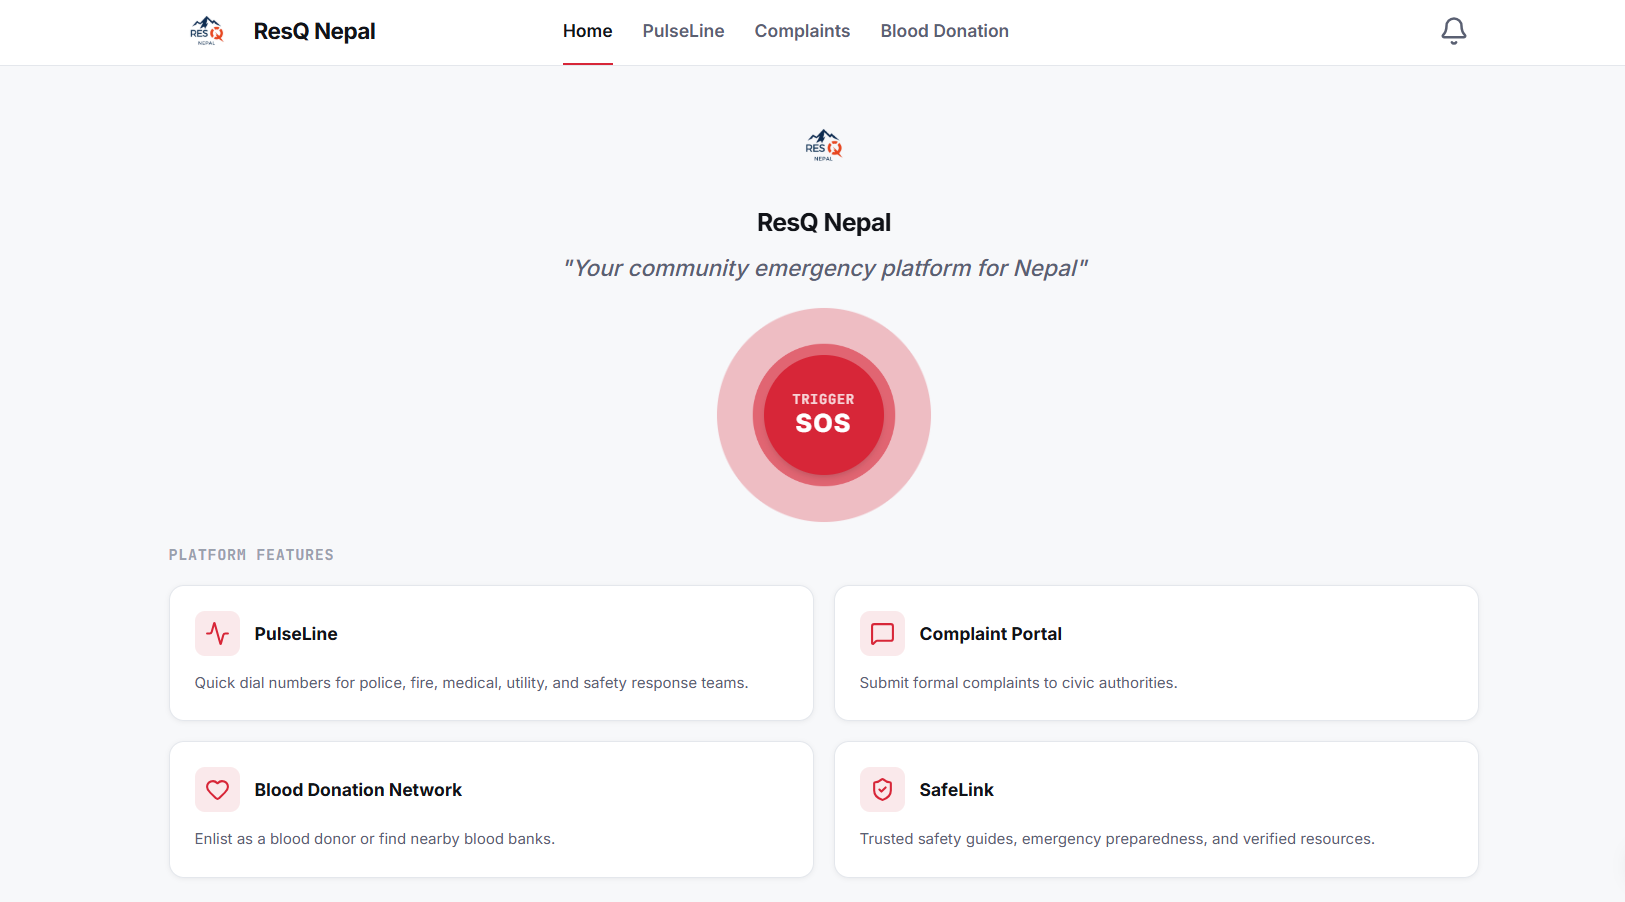
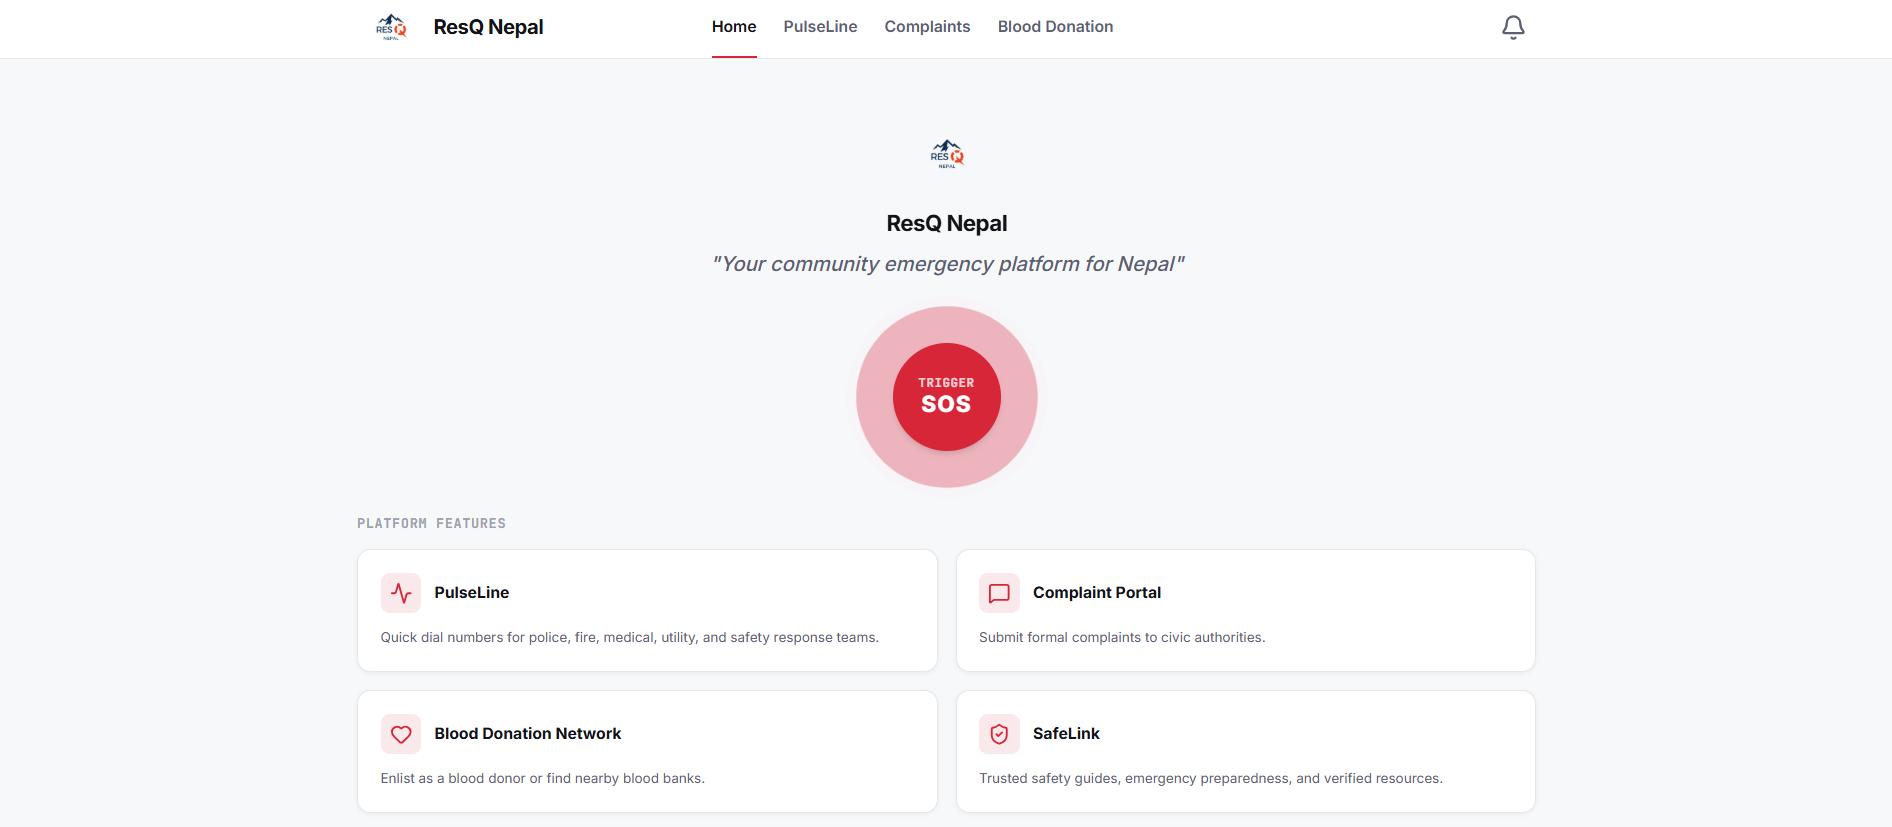
url added

diff --git a/src/components/About.tsx b/src/components/About.tsx
@@ -1,175 +1,3 @@
-// "use client";
-
-// import { useEffect, useState } from "react";
-// import { motion } from "framer-motion";
-
-// const interestTags = [
-//   "Hackathons",
-//   "Problem Solving",
-//   "Open Source",
-//   "Creative Design",
-//   "Nature",
-//   "Continuous Learning",
-// ];
-
-// const stats = [
-//   { label: "Projects Completed", value: 6, suffix: "+" },
-//   { label: "Years Experience", value: 0.5, suffix: "+" },
-//   { label: "Technologies Mastered", value: 12, suffix: "+" },
-//   { label: "Certifications Earned", value: 3, suffix: "" },
-// ];
-
-// function CountUp({ value, suffix }: { value: number; suffix: string }) {
-//   const [count, setCount] = useState(0);
-
-//   useEffect(() => {
-//     const prefersReducedMotion = window.matchMedia(
-//       "(prefers-reduced-motion: reduce)"
-//     ).matches;
-
-//     if (prefersReducedMotion) {
-//       setCount(value);
-//       return;
-//     }
-
-//     let start = 0;
-//     const duration = 1500;
-//     const increment = value / (duration / 16); // ~60fps
-
-//     const timer = setInterval(() => {
-//       start += increment;
-//       if (start >= value) {
-//         clearInterval(timer);
-//         setCount(value);
-//       } else {
-//         setCount(Math.floor(start));
-//       }
-//     }, 16);
-
-//     return () => clearInterval(timer);
-//   }, [value]);
-
-//   return (
-//     <span>
-//       {count}
-//       {suffix}
-//     </span>
-//   );
-// }
-
-// export default function About() {
-//   return (
-//     <section id="about" className="py-24 relative z-10 overflow-hidden">
-//       <div className="container mx-auto px-4 max-w-6xl">
-//         {/* Title */}
-//         <div className="text-center mb-16">
-//           <h2 className="font-heading text-3xl sm:text-5xl font-bold tracking-tight text-fg-primary mb-3">
-//             About Myself
-//           </h2>
-//           <div className="w-16 h-1 bg-gradient-to-r from-accent-purple to-accent-blue mx-auto rounded-full" />
-//         </div>
-
-//         <div className="grid grid-cols-1 lg:grid-cols-12 gap-12 items-center">
-//           {/* Left Column - Sketch Portrait Card */}
-//           <div className="lg:col-span-5 flex justify-center">
-//             <motion.div
-//               initial={{ opacity: 0, x: -30 }}
-//               whileInView={{ opacity: 1, x: 0 }}
-//               viewport={{ once: true, margin: "-100px" }}
-//               transition={{ duration: 0.6 }}
-//               className="w-full max-w-[340px] aspect-[4/5] notebook-paper p-6 relative flex flex-col justify-between shadow-2xl"
-//             >
-//               {/* Notebook Paper Details */}
-//               <div className="absolute top-0 bottom-0 left-6 w-[1.5px] bg-red-900/15" />
-//               <div className="absolute top-6 right-6 font-ui text-[10px] tracking-widest text-fg-muted/40 uppercase">
-//                 CR-0205 // SM
-//               </div>
-
-//               {/* Central sketchy portrait frame */}
-//               <div className="flex-1 border-2 border-dashed border-fg-muted/30 rounded-lg m-2 flex items-center justify-center relative overflow-hidden bg-bg-primary/40">
-//                 <svg
-//                   viewBox="0 0 100 100"
-//                   className="w-24 h-24 text-fg-muted/40"
-//                   fill="none"
-//                   stroke="currentColor"
-//                   strokeWidth="1"
-//                 >
-//                   {/* Sketchy face outline */}
-//                   <path d="M 35,45 Q 38,40 50,40 Q 62,40 65,45 Q 67,52 64,60 Q 60,72 50,72 Q 40,72 36,60 Q 33,52 35,45 Z" />
-//                   {/* hair */}
-//                   <path d="M 33,45 C 38,25 62,25 67,45" />
-//                   {/* eyes & mouth */}
-//                   <circle cx="43" cy="50" r="1.5" fill="currentColor" />
-//                   <circle cx="57" cy="50" r="1.5" fill="currentColor" />
-//                   <path d="M 46,62 Q 50,65 54,62" />
-//                   {/* constellation links over avatar */}
-//                   <path d="M 10,20 L 30,30 L 25,50 M 90,80 L 70,60" strokeDasharray="2,2" stroke="rgba(138, 124, 255, 0.2)" />
-//                 </svg>
-//                 <div className="absolute bottom-3 left-1/2 -translate-x-1/2 font-ui text-[10px] uppercase text-accent-purple tracking-widest">
-//                   [ SAMYAM_AVATAR ]
-//                 </div>
-//               </div>
-
-//               {/* Bottom sketch message */}
-//               <div className="text-center font-ui text-xs text-fg-muted/70 tracking-wide mt-2">
-//                 &quot;Sketching ideas in space, compiling them on Earth.&quot;
-//               </div>
-//             </motion.div>
-//           </div>
-
-//           {/* Right Column - Biography / Info */}
-//           <div className="lg:col-span-7 space-y-6">
-//             <h3 className="font-ui text-lg uppercase tracking-wider text-accent-blue font-semibold">
-//               Designing the Frontend, Engineering the Core
-//             </h3>
-
-//             <p className="font-body text-base text-fg-muted leading-relaxed">
-//               Hello! I&apos;m Samyam, a software engineering student and frontend developer deeply passionate about creating performant, beautiful, and accessible web experiences. I love combining raw engineering details with fluid animations to build interfaces that feel premium.
-//             </p>
-
-//             <p className="font-body text-base text-fg-muted leading-relaxed">
-//               Currently, I focus on building applications using modern frameworks like Next.js and TypeScript, styled with Tailwind CSS, and optimized for maximum responsiveness. I actively participate in hackathons, collaborate on open-source projects, and constantly challenge myself with complex problem solving.
-//             </p>
-
-//             {/* Interest Tags */}
-//             <div className="space-y-3">
-//               <h4 className="font-ui text-xs uppercase tracking-widest text-fg-primary font-bold">
-//                 My Core Interests
-//               </h4>
-//               <div className="flex flex-wrap gap-2.5">
-//                 {interestTags.map((tag, idx) => (
-//                   <span
-//                     key={idx}
-//                     className="font-ui text-xs px-3 py-1.5 rounded-md bg-bg-secondary border border-white/5 text-fg-muted hover:border-accent-purple/35 hover:text-fg-primary transition-all duration-300 cursor-default"
-//                   >
-//                     #{tag}
-//                   </span>
-//                 ))}
-//               </div>
-//             </div>
-
-//             {/* Statistics */}
-//             <div className="grid grid-cols-2 md:grid-cols-4 gap-6 pt-6 border-t border-white/10">
-//               {stats.map((stat, idx) => (
-//                 <div key={idx} className="space-y-1">
-//                   <div className="font-heading text-3xl font-bold text-accent-purple text-glow-purple">
-//                     <CountUp value={stat.value} suffix={stat.suffix} />
-//                   </div>
-//                   <div className="font-ui text-[10px] uppercase tracking-widest text-fg-muted leading-tight">
-//                     {stat.label}
-//                   </div>
-//                 </div>
-//               ))}
-//             </div>
-//           </div>
-//         </div>
-//       </div>
-//     </section>
-//   );
-// }
-
-
-
 "use client";
 
 import { useEffect, useState } from "react";
@@ -178,10 +6,10 @@ import { motion } from "framer-motion";
 const interestTags = [
   "Hackathons",
   "Problem Solving",
-  "Open Source",
   "Creative Design",
-  "Nature",
-  "Continuous Learning",
+  "Crafting",
+  "Space and Science",
+  "Volunteering",
 ];
 
 const stats = [
@@ -325,7 +153,7 @@ export default function About() {
                     key={idx}
                     className="font-ui text-xs px-3 py-1.5 rounded-md bg-bg-secondary border border-white/5 text-fg-muted hover:border-accent-purple/35 hover:text-fg-primary transition-all duration-300 cursor-default"
                   >
-                    #{tag}
+                    {tag}
                   </span>
                 ))}
               </div>

diff --git a/src/components/Projects.tsx b/src/components/Projects.tsx
@@ -252,42 +252,42 @@ interface Project {
 
 const projectsData: Project[] = [
   {
-    title: "Pet Vet",
+    title: "Park Fasto",
     category: "Frontend",
     desc: "Pet Vet is a comprehensive online platform for pet healthcare management. It serves as a centralized hub for pet owners to maintain detailed health records, schedule veterinary appointments, track vaccinations, and access essential pet care resources. The website features a modern, user-friendly interface with intuitive navigation and secure data management, providing a seamless experience for managing your pet's well-being.",
     techs: ["Next.js", "TypeScript", "Tailwind CSS", "Framer Motion", "Recharts"],
-    github: "https://github.com/samyamx/RecipeNest",
-    live: "https://recipenest.vercel.app",
+    github: "https://github.com/samyamx/ParkFasto__Frontend",
+    live: "https://park-fasto-frontend.vercel.app/",
     image: "/images/a.png",
   },
 
   {
-    title: "Chronos Task Planner",
+    title: "ResQ Nepal",
     category: "Full Stack",
     desc: "Linear.app-inspired project tracking board featuring ultra-fast keyboard command menus, socket synchronization, and robust subtask hierarchy trees.",
     techs: ["React", "Express", "MongoDB", "Tailwind CSS", "Socket.io"],
     github: "https://github.com",
-    live: "https://example.com",
+    live: "https://res-q-nepal-18kt.vercel.app/",
     image: "/images/rqn.png",
   },
   {
-    title: "Lunaris UI Design System",
+    title: "Recipe Nest",
     category: "UI Design",
     desc: "Cosmic-themed web UI kit incorporating hand-drawn pencil outline treatments with modern glassmorphic accents. Documented thoroughly inside active Storybook previews.",
     techs: ["Figma", "React", "Tailwind CSS", "Storybook", "NPM"],
-    github: "https://github.com",
+    github: "https://github.com/samyamx/RecipeNest ",
     live: "https://example.com",
-    image: "🎨",
+    image: "/images/rn.png",
   },
-  {
-    title: "Helix Code Playpen",
-    category: "Frontend",
-    desc: "Interactive playground with real-time AST node highlighting, live code lint analysis, and custom dark mode themes configured dynamically.",
-    techs: ["React", "TypeScript", "WebAssembly", "Tailwind CSS"],
-    github: "https://github.com",
-    live: "https://example.com",
-    image: "🧬",
-  },
+  // {
+  //   title: "Helix Code Playpen",
+  //   category: "Frontend",
+  //   desc: "Interactive playground with real-time AST node highlighting, live code lint analysis, and custom dark mode themes configured dynamically.",
+  //   techs: ["React", "TypeScript", "WebAssembly", "Tailwind CSS"],
+  //   github: "https://github.com",
+  //   live: "https://example.com",
+  //   image: "🧬",
+  // },
 ];
 
 const categories = ["All", "Frontend", "Full Stack", "UI Design"];